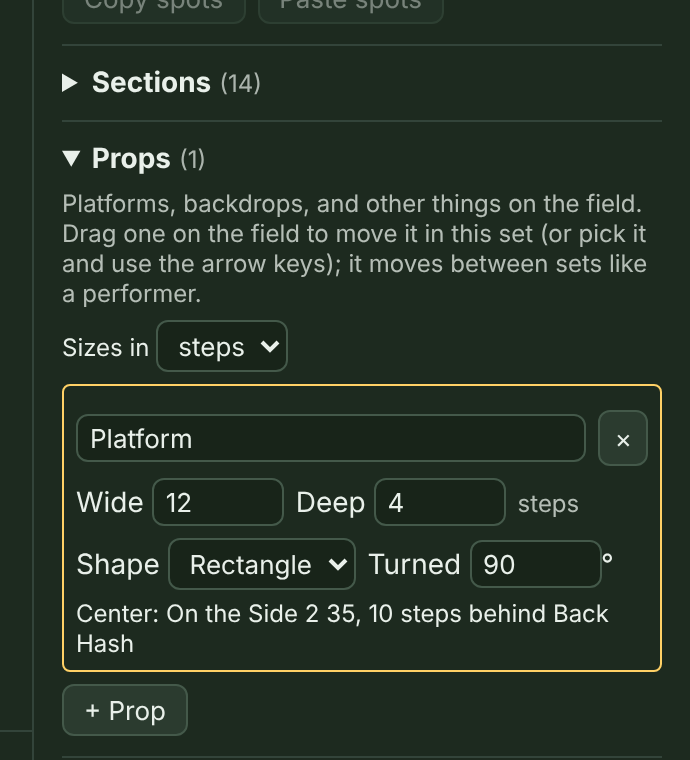
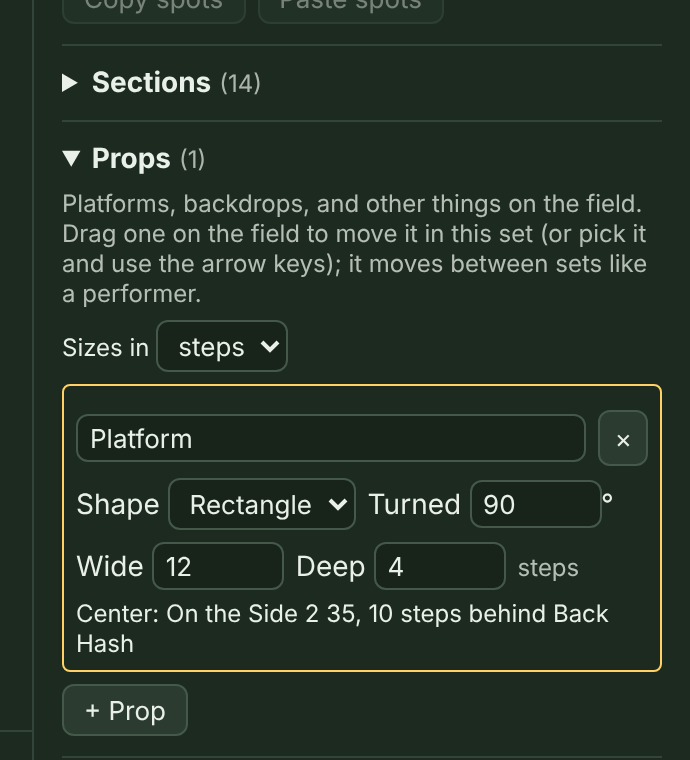
Set triangle props by Side 1, Side 2, and Side 3
Triangles now show only three Side lengths (1, 2, 3) instead of Wide,
Deep, Point, and Flat/Left/Right. Any order works: side 1 runs along the
front until turned, and a triangle whose far corner leans past an end of
side 1 leans that way. While a triangle is picked, the field numbers its
sides. Lengths that don't make a triangle yet are kept in the boxes with
a note, and the prop changes once all three fit. Shape and Turned moved
up beside the name. Guide, screenshot, PLAN, and DECISIONS updated.

Claude-Session: https://claude.ai/code/session_012ak5ZRQCQDvUYugGsDpZEe

Changed region(s): [[0.0913, 0.6053, 0.8826, 0.7868]]

diff --git a/src/ui/Sidebar.tsx b/src/ui/Sidebar.tsx
@@ -11,7 +11,7 @@ import { Menu } from './Toolbar';
 import { FEET, HASHES, distance, fieldDepth, readout, type HashPreset } from '../engine/coords';
 import type { Shape, ShapeKind } from '../engine/shapes';
 import {
-  fieldOf, withField, addProp, newPropSpot, MAX_PROPS, placeProp, removeProp, updateProp, propShape, shapePatch, triangleSides, triangleFromSides, type PropShape, MAX_NAME, scoreOrder, setCue, setMarks, setNames, setNote, label, locate, newId, moveToSection, removeSection, duplicateLetters, renumberSection, placeInSet, remapHash, positionsAt, xFrom, yFrom,
+  fieldOf, withField, addProp, newPropSpot, MAX_PROPS, placeProp, removeProp, updateProp, propShape, shapePatch, triangleSides, triangleFromSides, MAX_PROP_SIZE, type PropShape, MAX_NAME, scoreOrder, setCue, setMarks, setNames, setNote, label, locate, newId, moveToSection, removeSection, duplicateLetters, renumberSection, placeInSet, remapHash, positionsAt, xFrom, yFrom,
   type FrontDir, type FrontRef, type Section, type Show, type SideDir,
 } from '../engine/show';
 import { NumberField } from './NumberField';
@@ -494,7 +494,8 @@ function PropsEditor({ show, setShow, onSet, selected, setSelected }: { show: Sh
   const setFeet = (f: boolean) => { setFeetRaw(f); try { localStorage.setItem(PROP_UNITS, f ? 'feet' : 'steps'); } catch { /* storage blocked */ } };
   const per = feet ? FEET : 1, unit = feet ? 'feet' : 'steps'; // steps in one unit
   const inUnits = (steps: number) => Math.round((steps / per) * 100) / 100;
-  const [sideNote, setSideNote] = useState<{ id: string; text: string } | null>(null);
+  // Side lengths typed that don't make a triangle yet (often halfway through typing three new ones): kept and shown until they do.
+  const [sideDraft, setSideDraft] = useState<{ id: string; sides: number[]; text: string } | null>(null);
   return (
     <details open={open} onToggle={(e) => setOpen(e.currentTarget.open)} style={{ borderTop: '1px solid var(--line)', padding: '10px 0' }}>
       <summary><strong>Props</strong> <span style={{ fontSize: 12, opacity: 0.7 }}>({props.length})</span></summary>
@@ -512,42 +513,38 @@ function PropsEditor({ show, setShow, onSet, selected, setSelected }: { show: Sh
                 onClick={(e) => { e.stopPropagation(); setShow((s) => removeProp(s, pr.id)); if (sel) setSelected(null); }}>×</button>
             </div>
             <div style={row}>
-              <label>Wide <NumberField aria-label={`Prop width in ${unit}`} min={0.5 / per} max={200 / per} step={0.5} value={inUnits(pr.w)} style={{ width: 52 }} onValue={(n) => setShow((s) => updateProp(s, pr.id, { w: n * per }))} /></label>
-              <label>Deep <NumberField aria-label={`Prop depth in ${unit}`} min={0.5 / per} max={200 / per} step={0.5} value={inUnits(pr.h)} style={{ width: 52 }} onValue={(n) => setShow((s) => updateProp(s, pr.id, { h: n * per }))} /></label>
-              <span style={{ fontSize: 12, opacity: 0.75 }}>{unit}</span>
-            </div>
-            <div style={row}>
-              <label>Shape <select aria-label="Prop shape" value={propShape(pr)} onChange={(e) => setShow((s) => updateProp(s, pr.id, shapePatch(e.target.value as PropShape)))}>
+              <label>Shape <select aria-label="Prop shape" value={propShape(pr)} onChange={(e) => { setSideDraft(null); setShow((s) => updateProp(s, pr.id, shapePatch(e.target.value as PropShape))); }}>
                 <option value="rectangle">Rectangle</option><option value="oval">Oval</option><option value="triangle">Triangle</option>
               </select></label>
               {spot && <label title="Its turn in this set, in degrees counterclockwise">Turned <NumberField aria-label="Prop turn in degrees" min={-360} max={360} integer value={spot.angle} style={{ width: 52 }}
                 onValue={(n) => setShow((s) => placeProp(s, onSet, pr.id, { ...spot, angle: n }))} />°</label>}
             </div>
-            {pr.triangle && <div style={row}>
-              <label title="Where the point is, measured along the flat side from its left corner: 0 or the full width makes a right triangle">Point <NumberField aria-label={`Triangle point, ${unit} from the left corner`}
-                min={0} max={inUnits(pr.w)} step={0.5} value={inUnits((pr.point ?? 0.5) * pr.w)} style={{ width: 52 }}
-                onValue={(n) => setShow((s) => updateProp(s, pr.id, { point: Math.abs((n * per) / pr.w - 0.5) < 1e-9 ? undefined : Math.min(1, Math.max(0, (n * per) / pr.w)) }))} /></label>
-              <span style={{ fontSize: 12, opacity: 0.75 }}>{unit} from the left corner</span>
+            {!pr.triangle && <div style={row}>
+              <label>Wide <NumberField aria-label={`Prop width in ${unit}`} min={0.5 / per} max={MAX_PROP_SIZE / per} step={0.5} value={inUnits(pr.w)} style={{ width: 52 }} onValue={(n) => setShow((s) => updateProp(s, pr.id, { w: n * per }))} /></label>
+              <label>Deep <NumberField aria-label={`Prop depth in ${unit}`} min={0.5 / per} max={MAX_PROP_SIZE / per} step={0.5} value={inUnits(pr.h)} style={{ width: 52 }} onValue={(n) => setShow((s) => updateProp(s, pr.id, { h: n * per }))} /></label>
+              <span style={{ fontSize: 12, opacity: 0.75 }}>{unit}</span>
             </div>}
             {pr.triangle && (() => {
-              // The same triangle by its three sides: change one, and the other two stay put.
-              const sides = triangleSides(pr);
-              const setSide = (k: keyof typeof sides, n: number) => {
-                const next = { ...sides, [k]: n * per }, t = triangleFromSides(next.flat, next.left, next.right);
-                if (typeof t === 'string') { setSideNote({ id: pr.id, text: t }); return; }
-                setSideNote(null);
+              // A triangle is its three side lengths: change one, and the other two stay put.
+              const draft = sideDraft?.id === pr.id ? sideDraft : null, sides = draft?.sides ?? triangleSides(pr);
+              const setSide = (k: number, n: number) => {
+                const next = sides.map((x, j) => (j === k ? n * per : x)), t = triangleFromSides(next[0], next[1], next[2]);
+                if (typeof t === 'string') { setSideDraft({ id: pr.id, sides: next, text: t }); return; }
+                setSideDraft(null);
                 setShow((s) => updateProp(s, pr.id, t));
               };
               return (
                 <>
-                  <div style={row} title="Type the length of each side, as measured on the prop. Change one and the other two stay the same.">
-                    <span style={{ width: '100%' }}>Sides <span style={{ fontSize: 12, opacity: 0.75 }}>({unit})</span></span>
-                    {(['flat', 'left', 'right'] as const).map((k) => (
-                      <label key={k} style={{ fontSize: 12 }}>{k === 'flat' ? 'Flat' : k === 'left' ? 'Left' : 'Right'} <NumberField whenDone aria-label={`Triangle ${k} side in ${unit}`}
-                        min={0.01} max={400 / per} step="any" value={inUnits(sides[k])} style={{ width: 48 }} onValue={(n) => setSide(k, n)} /></label>
+                  <div style={row} title="Type each side's length, as measured on the prop. Change one and the other two stay the same.">
+                    <span style={{ width: '100%' }}>Side lengths <span style={{ fontSize: 12, opacity: 0.75 }}>({unit})</span></span>
+                    {sides.map((len, k) => (
+                      <label key={k}>{k + 1} <NumberField whenDone aria-label={`Side ${k + 1} length in ${unit}`}
+                        min={0.01} max={(2 * MAX_PROP_SIZE) / per} step="any" value={inUnits(len)} style={{ width: 56 }} onValue={(n) => setSide(k, n)} /></label>
                     ))}
                   </div>
-                  {sideNote?.id === pr.id && <p role="status" style={{ fontSize: 12, margin: '4px 0 0' }}>{sideNote.text}</p>}
+                  {draft && <p role="status" style={{ fontSize: 12, margin: '4px 0 0' }}>{draft.text} The prop changes once all three fit.{' '}
+                    <button style={{ fontSize: 12 }} onClick={() => setSideDraft(null)}>Put them back</button></p>}
+                  <p style={{ fontSize: 12, opacity: 0.75, margin: '4px 0 0' }}>Side 1 runs along the front until it's turned. The field numbers the sides while the prop is picked.</p>
                 </>
               );
             })()}

diff --git a/src/engine/show.ts b/src/engine/show.ts
@@ -62,10 +62,11 @@ export interface DrillSet {
 }
 
 /**
- * A prop on the field (a platform, a backdrop): a rectangle, an oval when `round`, or a triangle when `triangle`, `w` steps side to side
- * and `h` front to back. The triangle's flat side is toward the front and its point toward the back, until it's turned. `point` is where
- * the point sits along the width, 0 over the left corner to 1 over the right (left as the director sees it); missing means the middle.
- * With the longest side as the flat side, that covers every triangle: right (0 or 1), even-sided, and lopsided ones.
+ * A prop on the field (a platform, a backdrop): a rectangle or an oval (`round`) `w` steps side to side and `h` front to back, or a triangle
+ * (`triangle`). A triangle is set by its three sides. Side 1 is `w` steps long and runs side to side along the front, until it's turned;
+ * the corner across from it is `h` steps behind it, `point` × w from side 1's left end (missing means the middle; below 0 or past 1 when
+ * the triangle leans out past an end of side 1). Side 2 runs from side 1's left end to that corner, side 3 from its right end. A triangle's
+ * center is the middle of the box around it.
  */
 export interface Prop { id: string; name: string; w: number; h: number; round?: boolean; triangle?: boolean; point?: number }
 export type PropShape = 'rectangle' | 'oval' | 'triangle';
@@ -73,29 +74,35 @@ export const propShape = (p: Pick<Prop, 'round' | 'triangle'>): PropShape => (p.
 /** The patch that makes a prop this shape (older files only know `round`, so ovals stay `round`). */
 export const shapePatch = (shape: PropShape): Pick<Prop, 'round' | 'triangle' | 'point'> =>
   ({ round: shape === 'oval' || undefined, triangle: shape === 'triangle' || undefined, ...(shape === 'triangle' ? {} : { point: undefined }) });
-/** A triangle prop's three sides in steps: the flat side, then the left and right sides up to the point (left as the director sees it, unturned). */
-export function triangleSides(p: Pick<Prop, 'w' | 'h' | 'point'>) {
+
+/** A triangle prop's corners in its own frame (steps, y toward the back), around its center: side 1's left end, its right end, the far corner. */
+export function triangleCorners(p: Pick<Prop, 'w' | 'h' | 'point'>): [Point, Point, Point] {
+  const x = (p.point ?? 0.5) * p.w, mid = (Math.min(0, x) + Math.max(p.w, x)) / 2;
+  return [{ x: -mid, y: -p.h / 2 }, { x: p.w - mid, y: -p.h / 2 }, { x: x - mid, y: p.h / 2 }];
+}
+
+/** A triangle prop's sides 1, 2, and 3, in steps. */
+export function triangleSides(p: Pick<Prop, 'w' | 'h' | 'point'>): [number, number, number] {
   const x = (p.point ?? 0.5) * p.w;
-  return { flat: p.w, left: Math.hypot(x, p.h), right: Math.hypot(p.w - x, p.h) };
+  return [p.w, Math.hypot(x, p.h), Math.hypot(p.w - x, p.h)];
 }
 
-/**
- * The triangle with these three sides (in steps), as Wide, Deep, and Point, or a sentence saying why there isn't one. The point has to land
- * over the flat side (neither corner on it can be wider than square); making the longest side the flat side always works.
- */
-export function triangleFromSides(flat: number, left: number, right: number): { w: number; h: number; point: number | undefined } | string {
-  const sides = [flat, left, right];
+/** The widest a triangle prop's box may be, in steps (as for Wide). */
+export const MAX_PROP_SIZE = 200;
+/** How wide a triangle prop's box is, in steps. */
+export const triangleWidth = (p: Pick<Prop, 'w' | 'point'>) => { const x = (p.point ?? 0.5) * p.w; return Math.max(p.w, x) - Math.min(0, x); };
+
+/** The triangle with sides 1, 2, and 3 (in steps), or a sentence saying why there isn't one. */
+export function triangleFromSides(s1: number, s2: number, s3: number): { w: number; h: number; point: number | undefined } | string {
+  const sides = [s1, s2, s3];
   if (!sides.every((n) => Number.isFinite(n) && n > 0)) return 'Each side needs a length.';
-  if (Math.max(...sides) * 2 >= flat + left + right - 1e-9) return 'Those sides don\'t make a triangle: the longest has to be shorter than the other two together.';
-  const x = (flat * flat + left * left - right * right) / (2 * flat), h = Math.sqrt(Math.max(0, left * left - x * x));
-  if (x < -1e-9 || x > flat + 1e-9) return 'With those sides the point would hang past the end of the flat side. Make the longest side the flat side.';
-  if (flat > 200 || h > 200) return 'That\'s bigger than a prop can be (200 steps).';
-  const point = Math.min(1, Math.max(0, x / flat));
-  return { w: flat, h, point: Math.abs(point - 0.5) < 1e-9 ? undefined : point };
+  if (Math.max(...sides) * 2 >= s1 + s2 + s3 - 1e-9) return 'Those sides don\'t make a triangle: the longest side has to be shorter than the other two put together.';
+  const x = (s1 * s1 + s2 * s2 - s3 * s3) / (2 * s1), h = Math.sqrt(Math.max(0, s2 * s2 - x * x)), point = x / s1;
+  const t = { w: s1, h, point: Math.abs(point - 0.5) < 1e-9 ? undefined : point };
+  if (triangleWidth(t) > MAX_PROP_SIZE || h > MAX_PROP_SIZE) return `That's bigger than a prop can be (${MAX_PROP_SIZE} steps across).`;
+  return t;
 }
 
-/** The triangle's point, side to side from the middle of its box, in steps. */
-export const pointOffset = (p: Pick<Prop, 'w' | 'point'>) => ((p.point ?? 0.5) - 0.5) * p.w;
 /** A prop's center and its turn in degrees (counterclockwise as the director sees it). */
 export interface PropSpot { x: number; y: number; angle: number }
 export const MAX_PROPS = 100;
@@ -802,11 +809,16 @@ export function propsAt(show: Show, t: number): Record<string, PropSpot> {
   return out;
 }
 
-/** Inside a triangle with its flat side 2·hw wide at v = -hh and its point at (px, hh)? */
-function inTriangle(u: number, v: number, hw: number, hh: number, px: number) {
-  if (Math.abs(v) > hh) return false;
-  const t = (v + hh) / (2 * hh); // 0 at the flat side, 1 at the point
-  return u >= -hw + t * (px + hw) && u <= hw + t * (px - hw);
+/** Inside triangle `c`, or within `pad` of its edge? */
+function inTriangle(q: Point, c: [Point, Point, Point], pad: number) {
+  const cross = (a: Point, b: Point) => (b.x - a.x) * (q.y - a.y) - (b.y - a.y) * (q.x - a.x);
+  const d = [cross(c[0], c[1]), cross(c[1], c[2]), cross(c[2], c[0])];
+  if (d.every((n) => n >= 0) || d.every((n) => n <= 0)) return true;
+  const toEdge = (a: Point, b: Point) => { // distance from q to the segment a-b
+    const vx = b.x - a.x, vy = b.y - a.y, t = Math.max(0, Math.min(1, ((q.x - a.x) * vx + (q.y - a.y) * vy) / (vx * vx + vy * vy || 1)));
+    return Math.hypot(q.x - a.x - t * vx, q.y - a.y - t * vy);
+  };
+  return Math.min(toEdge(c[0], c[1]), toEdge(c[1], c[2]), toEdge(c[2], c[0])) <= pad;
 }
 
 /** The prop under field point `p` (the top one), with `pad` steps of reach around its edge. */
@@ -818,7 +830,7 @@ export function hitProp(show: Show, spots: Record<string, PropSpot>, p: Point, p
     const u = dx * Math.cos(a) - dy * Math.sin(a), v = dx * Math.sin(a) + dy * Math.cos(a); // in the prop's own frame
     const hw = pr.w / 2 + pad, hh = pr.h / 2 + pad, shape = propShape(pr);
     if (shape === 'oval' ? (u / hw) ** 2 + (v / hh) ** 2 <= 1
-      : shape === 'triangle' ? inTriangle(u, v, hw, hh, pointOffset(pr))
+      : shape === 'triangle' ? inTriangle({ x: u, y: v }, triangleCorners(pr), pad)
       : Math.abs(u) <= hw && Math.abs(v) <= hh) return pr.id;
   }
 }

diff --git a/src/engine/show.test.ts b/src/engine/show.test.ts
@@ -4,7 +4,7 @@ import {
   nextRevision, revisionLabel,
   addPerformer, addSetAfter, advance, biggestStep, chainOrder, clearFtl, ftlTrail, moveSteps, normalizeFtl, flip, mirrorSides, moveSetTo, remapHash, rotateScale, setFtl, newShowId, parseShowFile, snapSelection, playRange, playPlan, label, locate, newShow, parseShow, placeInSet, positionsAt,
   removePerformers, renumberSets, scoreOrder, DEFAULT_SECTIONS, removeSet, setAt, setCounts, setStarts, totalCounts, xFrom, yFrom, insertSetAt, showLength, movementAt, movementOfSet, setFtlTurns,
-  addSetHere, setCue, newPropSpot, setFtlSmooth, routeTurns, leaderDistance, setTiming, timingOf, fitTurn, setTurning, turnRoute, groupTurn, counterMarch, closeCalls, addProp, placeProp, propsAt, hitProp, removeProp, updateProp, propShape, shapePatch, pointOffset, triangleSides, triangleFromSides, fieldOf, moveSegments, withShowId, withField, validField,
+  addSetHere, setCue, newPropSpot, setFtlSmooth, routeTurns, leaderDistance, setTiming, timingOf, fitTurn, setTurning, turnRoute, groupTurn, counterMarch, closeCalls, addProp, placeProp, propsAt, hitProp, removeProp, updateProp, propShape, shapePatch, triangleCorners, triangleSides, triangleFromSides, triangleWidth, fieldOf, moveSegments, withShowId, withField, validField,
 } from './show';
 
 function twoSetShow() {
@@ -884,20 +884,46 @@ describe('triangle props', () => {
 });
 
 describe('lopsided triangle props', () => {
-  it('put the point anywhere along the width, and check it in files', () => {
+  it('lean the far corner anywhere, and check it in files', () => {
     const { show: base } = twoSetShow();
     const r = addProp(base, 'Wedge', 8, 6, false, { x: 0, y: 60 });
     const show = updateProp(r.show, r.id, { ...shapePatch('triangle'), point: 0 }); // a right triangle, its square corner front left
     const at = propsAt(show, 0);
-    expect(pointOffset(show.props![0])).toBe(-4);
+    expect(triangleCorners(show.props![0])).toEqual([{ x: -4, y: -3 }, { x: 4, y: -3 }, { x: -4, y: 3 }]);
     expect(hitProp(show, at, { x: -3.8, y: 62.5 })).toBe(r.id); // up the straight left side
-    expect(hitProp(show, at, { x: 3, y: 57.5 })).toBe(r.id); // the far front corner
+    expect(hitProp(show, at, { x: 3, y: 57.5 })).toBe(r.id); // near the far front corner
     expect(hitProp(show, at, { x: 0, y: 62.5 })).toBeUndefined(); // the middle of the back is outside now
+    expect(hitProp(show, at, { x: 0, y: 62.5 }, 2.5)).toBe(r.id); // ... but within reach of the slanted side (2 steps away)
     expect(parseShow(JSON.stringify(show)).props![0].point).toBe(0);
-    const bad = JSON.parse(JSON.stringify(show)); bad.props[0].point = 1.5;
+    const bad = JSON.parse(JSON.stringify(show)); bad.props[0].point = 40; // 320 steps across
     expect(() => parseShow(JSON.stringify(bad))).toThrow(/props/);
-    expect(updateProp(show, r.id, shapePatch('rectangle')).props![0].point).toBeUndefined(); // only triangles keep a point
-    expect(pointOffset({ w: 8 })).toBe(0); // no point saved: the middle
+    expect(updateProp(show, r.id, shapePatch('rectangle')).props![0].point).toBeUndefined(); // only triangles keep it
+  });
+});
+
+describe('triangle props from side lengths', () => {
+  const tri = (a: number, b: number, c: number) => { const t = triangleFromSides(a, b, c); if (typeof t === 'string') throw new Error(t); return t; };
+  it('builds the triangle from sides 1, 2, and 3 and reads them back', () => {
+    expect(tri(8, 6, 6).point).toBeUndefined(); // two equal sides: the far corner in the middle
+    expect(tri(8, 6, 6).h).toBeCloseTo(Math.sqrt(20));
+    const right = tri(5, 3, 4); // the carpenter's 3-4-5
+    expect(right.h).toBeCloseTo(2.4);
+    expect(triangleSides(right).map((n) => Math.round(n * 1e9) / 1e9)).toEqual([5, 3, 4]);
+  });
+  it('takes any order, even when the triangle leans past an end of side 1', () => {
+    const t = tri(3, 4, 5); // side 1 is a short side now: the far corner is straight back from its left end
+    expect(t.point).toBeCloseTo(0);
+    const lean = tri(4, 7, 4); // side 2 the longest: the corner leans out past side 1's right end
+    expect(lean.point!).toBeGreaterThan(1);
+    expect(triangleSides(lean).map((n) => Math.round(n * 1e9) / 1e9)).toEqual([4, 7, 4]);
+    expect(triangleWidth(lean)).toBeCloseTo(lean.point! * 4); // the box runs from side 1's left end to the corner
+    const c = triangleCorners(lean);
+    expect((Math.min(c[0].x, c[2].x) + Math.max(c[1].x, c[2].x)) / 2).toBeCloseTo(0); // centered on its box
+  });
+  it('explains sides that make no triangle', () => {
+    expect(triangleFromSides(10, 3, 4)).toMatch(/don't make a triangle/);
+    expect(triangleFromSides(5, 0, 4)).toMatch(/needs a length/);
+    expect(triangleFromSides(300, 200, 200)).toMatch(/bigger than a prop/);
   });
 });
 
@@ -1031,20 +1057,3 @@ describe('parseShow with built-in object names as ids', () => {
   });
 });
 
-describe('triangle props from side lengths', () => {
-  it('builds the triangle from its three sides and reads them back', () => {
-    const t = triangleFromSides(8, 6, 6);
-    if (typeof t === 'string') throw new Error(t);
-    expect(t.point).toBeUndefined(); // even: the point in the middle
-    expect(t.h).toBeCloseTo(Math.sqrt(20));
-    const right = triangleFromSides(5, 3, 4); // the carpenter's 3-4-5: square corner where the point drops straight down
-    if (typeof right === 'string') throw new Error(right);
-    expect(right.h).toBeCloseTo(2.4);
-    const back = triangleSides(right);
-    expect([back.flat, back.left, back.right].map((n) => Math.round(n * 1e9) / 1e9)).toEqual([5, 3, 4]);
-    expect(triangleFromSides(10, 3, 4)).toMatch(/don't make a triangle/);
-    expect(triangleFromSides(5, 7, 4)).toMatch(/hang past/);
-    expect(typeof triangleFromSides(5, 5.5, 4)).toBe('object'); // a side a bit longer than the flat one can still fit
-    expect(triangleFromSides(5, 0, 4)).toMatch(/needs a length/);
-  });
-});

diff --git a/src/field/drawField.ts b/src/field/drawField.ts
@@ -1,6 +1,6 @@
 import { chrome, FIELD as F, LIGHT, PALETTE } from '../ui/palette';
 import { placeLabels, turned } from './labels';
-import { pointOffset, propShape, type LabelSide } from '../engine/show';
+import { propShape, triangleCorners, type LabelSide } from '../engine/show';
 import { FEET, FIELD_WIDTH, GOAL_LINE_X, HASHES, STEP_IN, type FieldSpec, type Floor, type Point } from '../engine/coords';
 import { TEXT_STEPS, type Mark } from '../engine/marks';
 
@@ -256,9 +256,10 @@ export function drawProps(
     ctx.translate(c.x, c.y);
     ctx.rotate((-s.angle * Math.PI) / 180); // the screen's y runs down, so counterclockwise on the field is negative here
     ctx.beginPath();
-    const shape = propShape(pr), tip = pointOffset(pr) * v.scale;
+    const shape = propShape(pr), tri = shape === 'triangle' ? triangleCorners(pr) : null;
+    const at0 = (q: Point) => ({ x: q.x * v.scale, y: -q.y * v.scale }); // the prop's own frame (y toward the back) on screen, unturned
     if (shape === 'oval') ctx.ellipse(0, 0, w / 2, h / 2, 0, 0, Math.PI * 2);
-    else if (shape === 'triangle') { ctx.moveTo(tip, -h / 2); ctx.lineTo(w / 2, h / 2); ctx.lineTo(-w / 2, h / 2); ctx.closePath(); } // point toward the back (up)
+    else if (tri) { tri.map(at0).forEach((q, k) => (k ? ctx.lineTo(q.x, q.y) : ctx.moveTo(q.x, q.y))); ctx.closePath(); } // side 1 along the front
     else ctx.rect(-w / 2, -h / 2, w, h);
     ctx.globalAlpha = mode === 'print' ? 0.85 : 0.7;
     ctx.fillStyle = I.propFill;
@@ -270,16 +271,27 @@ export function drawProps(
     ctx.stroke();
     ctx.restore();
     ctx.save();
-    // A triangle's name sits at its centroid (a third of the way up from its flat side, where there's room), turned with it.
-    const [ox, oy] = shape === 'triangle' ? [tip / 3, h / 6] : [0, 0], a = (-s.angle * Math.PI) / 180;
-    const m = ctx.getTransform(), at = m.transformPoint({ x: c.x + ox * Math.cos(a) - oy * Math.sin(a), y: c.y + ox * Math.sin(a) + oy * Math.cos(a) });
-    ctx.setTransform(1, 0, 0, 1, 0, 0); // the name reads upright, even on a field turned around
-    ctx.font = `700 ${px}px system-ui, sans-serif`; ctx.textAlign = 'center'; ctx.textBaseline = 'middle';
-    const maxW = Math.max(w, h) * Math.hypot(m.a, m.b);
-    ctx.lineWidth = px * 0.3; ctx.lineJoin = 'round'; ctx.strokeStyle = I.propHalo;
-    ctx.strokeText(pr.name, at.x, at.y, maxW); // an edge, so lines on the field don't run through the name
-    ctx.fillStyle = mode === 'print' ? F.black : sel ? I.selLine : I.propName;
-    ctx.fillText(pr.name, at.x, at.y, maxW);
+    // Text reads upright, even on a field turned around: place it by hand, turned with the prop. A triangle's name sits at its
+    // centroid, where there's room; picked, its sides are numbered 1, 2, 3 (as in the sidebar), just outside each side's middle.
+    const a = (-s.angle * Math.PI) / 180, m = ctx.getTransform();
+    const place = (q: Point) => { const o = at0(q); return m.transformPoint({ x: c.x + o.x * Math.cos(a) - o.y * Math.sin(a), y: c.y + o.x * Math.sin(a) + o.y * Math.cos(a) }); };
+    const mid = tri ? { x: (tri[0].x + tri[1].x + tri[2].x) / 3, y: (tri[0].y + tri[1].y + tri[2].y) / 3 } : { x: 0, y: 0 };
+    ctx.setTransform(1, 0, 0, 1, 0, 0);
+    ctx.textAlign = 'center'; ctx.textBaseline = 'middle'; ctx.lineJoin = 'round';
+    const label = (text: string, q: DOMPoint, size: number, maxW?: number) => {
+      ctx.font = `700 ${size}px system-ui, sans-serif`; ctx.lineWidth = size * 0.3; ctx.strokeStyle = I.propHalo;
+      ctx.strokeText(text, q.x, q.y, maxW); // an edge, so lines on the field don't run through it
+      ctx.fillStyle = mode === 'print' ? F.black : sel ? I.selLine : I.propName;
+      ctx.fillText(text, q.x, q.y, maxW);
+    };
+    label(pr.name, place(mid), px, Math.max(w, h) * Math.hypot(m.a, m.b));
+    if (tri && sel && mode !== 'print') {
+      const gap = (px * 0.9) / (v.scale * Math.hypot(m.a, m.b)); // steps, so the number clears the line
+      ([[0, 1], [0, 2], [1, 2]] as const).forEach(([i, j], k) => {
+        const e = { x: (tri[i].x + tri[j].x) / 2, y: (tri[i].y + tri[j].y) / 2 }, d = Math.hypot(e.x - mid.x, e.y - mid.y) || 1;
+        label(String(k + 1), place({ x: e.x + ((e.x - mid.x) / d) * gap, y: e.y + ((e.y - mid.y) / d) * gap }), px * 0.9);
+      });
+    }
     ctx.restore();
   }
 }

diff --git a/src/engine/showFile.ts b/src/engine/showFile.ts
@@ -5,7 +5,7 @@ import { HASHES, type Point } from './coords';
 import { validMusic } from './music';
 import { validMark } from './marks';
 import {
-  COLOR_RE, LABEL_SIDES, MAX_MOVEMENT, MAX_NAME, MAX_PROPS, MAX_STEP_LIMIT, MAX_TURNS, MIN_STEP_LIMIT, normalizeFtl, validField,
+  COLOR_RE, LABEL_SIDES, MAX_PROP_SIZE, triangleWidth, MAX_MOVEMENT, MAX_NAME, MAX_PROPS, MAX_STEP_LIMIT, MAX_TURNS, MIN_STEP_LIMIT, normalizeFtl, validField,
   type DrillSet, type LabelSide, type Movement, type Performer, type Prop, type PropSpot, type Section, type Show,
 } from './show';
 
@@ -82,7 +82,7 @@ function checkShow(s: any): Show { // eslint-disable-line @typescript-eslint/no-
   if (s.props !== undefined && (!Array.isArray(s.props) || s.props.length > MAX_PROPS || !s.props.every((p: Prop) => okId(p?.id) && str(p.name) && p.name.length <= MAX_NAME
     && Number.isFinite(p.w) && p.w > 0 && p.w <= 200 && Number.isFinite(p.h) && p.h > 0 && p.h <= 200 && (p.round === undefined || typeof p.round === 'boolean')
     && (p.triangle === undefined || typeof p.triangle === 'boolean') && !(p.round && p.triangle)
-    && (p.point === undefined || (Number.isFinite(p.point) && p.point >= 0 && p.point <= 1))))) bad('props');
+    && (p.point === undefined || (Number.isFinite(p.point) && triangleWidth(p) <= MAX_PROP_SIZE))))) bad('props');
   if (s.trace !== undefined && !(str(s.trace?.id) && Number.isFinite(s.trace.x) && Number.isFinite(s.trace.y) && Number.isFinite(s.trace.w) && s.trace.w > 0
     && Number.isFinite(s.trace.opacity) && s.trace.opacity >= 0 && s.trace.opacity <= 1)) bad('trace');
   if (s.surface !== undefined && (typeof s.surface !== 'object' || !validField(s.surface))) bad('surface');

diff --git a/docs/HOW-TO.md b/docs/HOW-TO.md
@@ -296,8 +296,9 @@ A delayed step-off and a turning move work together: hold 4, then turn in 12, fo
 
 Props are things on the field that aren't performers: a platform, a backdrop, a ramp. Click **Add**'s **▾**, then **Prop** (after that, **Add Prop** adds another). It starts as a square 8 steps wide and 8 deep in the middle of the field (if a prop is already there, 2 steps right and 2 down from it, so they don't land on top of each other), in every set, and it's picked, with its box open in the sidebar. (**+ Prop** under **Props** in the sidebar, and **Place a prop** on a blank field's **Start your show** note, do the same.)
 
-- Type its name, and set how **Wide** (side to side) and **Deep** (front to back) it is. Sizes are in steps unless you pick **feet** in **Sizes in** at the top of the list, handy when you're working from a builder's measurements. (That choice stays on this computer; the show itself always keeps steps, so it opens the same everywhere.) Pick its **Shape**: **Rectangle**, **Oval** (an oval or a circle), or **Triangle**. A triangle starts with its flat side to the front and its point to the back, in the middle. **Point** moves the point along the width: type how many steps it is from the left corner. Type 0 (or the full width) for a right triangle with its square corner on that side, or anything in between for a lopsided one. Any triangle fits this way: make its longest side the flat side, set **Wide** to that side's length and **Deep** to how far the point is from it, then use **Turned** to point it the way it faces on the field.
-- **Sides** is the easier way to build a triangle to exact measurements. Type the length of the **Flat** side and the **Left** and **Right** sides (left and right as you look at it with its point to the back), and FreeFORM works out **Wide**, **Deep**, and **Point** for you. Changing one side keeps the other two. A carpenter's 3-4-5 square corner, for example, is **Flat** 5, **Left** 3, **Right** 4. If the three sides can't make a triangle, or the point would land past the end of the flat side, a note says so and nothing changes. Make the longest side the flat side and it always works.
+- Type its name and pick its **Shape**: **Rectangle**, **Oval** (an oval or a circle), or **Triangle**. Sizes are in steps unless you pick **feet** in **Sizes in** at the top of the list, handy when you're working from a builder's measurements. (That choice stays on this computer; the show itself always keeps steps, so it opens the same everywhere.)
+- For a rectangle or an oval, set how **Wide** (side to side) and **Deep** (front to back) it is.
+- For a triangle, type its three **Side lengths**, **1**, **2**, and **3**, as measured on the prop, in any order. FreeFORM draws the triangle those sides make. Side 1 runs along the front until you turn it, and while the prop is picked the field shows a small 1, 2, and 3 beside its sides. Changing one length keeps the other two. A carpenter's 3-4-5 (a square corner) is **1** 5, **2** 3, **3** 4, for example. If the lengths can't make a triangle (the longest side has to be shorter than the other two put together), a note says so and the prop waits: your lengths stay in the boxes, so you can keep typing, and the prop changes once all three fit. **Put them back** returns to the triangle's own lengths.
 - **Drag it on the field** to move it in the set you're on. While you drag, the readout in the corner of the field shows where its center is, and **Center** in its box in the sidebar shows the same. Like a performer, it moves into later sets where it was still standing on its old spot, and it rolls from spot to spot between sets.
 - **By keyboard**: with a prop picked, the arrow keys move it 1 step (Shift for 4 steps, Option or Alt for half a step), and the note at the bottom of the field says where its center is. To pick one without the mouse, Tab to its box under **Props** in the sidebar. Type its turn in **Turned**.
 - **Turned** turns it in this set, in degrees counterclockwise. Between sets it turns the short way.

diff --git a/DECISIONS.md b/DECISIONS.md
@@ -481,3 +481,11 @@ Recent decisions are here. Older ones are in [docs/decisions/](docs/decisions/),
 - **Options:** a separate "make a prop from measurements" dialog; side lengths as a second, always-live view of the same triangle; drawing corners on the field.
 - **Decision:** For triangles, a **Sides** row (**Flat**, **Left**, **Right**) under **Point**. It shows the triangle's current sides and takes new ones: change one and the other two stay put, and **Wide**, **Deep**, and **Point** follow. Sides apply on Enter or leaving the box (not on every keystroke), since half-typed lengths usually aren't a triangle. If the sides can't make one, or the point would land past the end of the flat side, a note says why and the prop doesn't change. The math is `triangleSides` and `triangleFromSides` in `show.ts`, with tests (including a 3-4-5 right triangle).
 - **Feet:** a **Sizes in** menu (steps or feet) at the top of the Props list switches every prop size box (**Wide**, **Deep**, **Point**, **Sides**) to feet, at 22.5 inches to the step, shown to two decimals. It's this computer's choice (`freeform:prop-units` in localStorage), not saved in the show: files and links always store steps, so nothing about the file format changes and a show looks the same everywhere.
+
+## 2026-11-17 10:05 EST: Triangles are set by Side 1, Side 2, and Side 3
+
+- **Who:** Jason found "Point," "Flat," "Left," and "Right" unclear and asked for side length 1, 2, and 3 instead. The details are Claude's choices, *Jason can veto*.
+- **Context:** A triangle had two overlapping sets of boxes (**Wide**, **Deep**, **Point**, then **Flat**, **Left**, **Right**), and only worked when the longest side was the flat one.
+- **Decision:** A triangle's box now shows only **Side lengths** **1**, **2**, and **3** (plus **Shape** and **Turned**, which moved up beside the name). **Wide**, **Deep**, and **Point** are gone for triangles; rectangles and ovals keep **Wide** and **Deep**. Any order works: side 1 always runs along the front until it's turned, and when the corner across from it leans out past an end of side 1, the triangle leans that way (the file's `point` can now be below 0 or past 1; `parseShow` checks the whole triangle is at most 200 steps across). A triangle's center is the middle of the box around it, so turning and the center readout behave like any other prop. While a triangle is picked, the field shows a small 1, 2, and 3 beside its sides, so the numbers in the sidebar have something to point at (not on printed charts).
+- **Typing three new lengths (Claude):** entering new sides one box at a time often passes through lengths that aren't a triangle yet (16, then 28, then 16). Instead of refusing the middle one, the boxes keep what was typed, a note says why it isn't a triangle yet, and the prop changes once all three fit; **Put them back** drops the typed lengths.
+- **Replaces** the Point box and the Flat/Left/Right row from earlier today (never released). This morning's `triangle` and `point` fields keep their meaning for any triangle saved since, so nothing breaks.

diff --git a/PLAN.md b/PLAN.md
@@ -30,7 +30,7 @@
 - ✅ Gaps a Pyware or UDB writer would notice (2026-11-05): delayed step-offs (hold, then move, then hold) in a **Move** menu; turning moves (a rotating group marches arcs around the turn that fits its old and new spots, one step size each); rotate around a chosen performer (gate turns); counter-march (an FTL preset); too-close warnings (under 1 step at any half count) on the timeline and in **Move**; Select all, select a section, copy and paste spots between sets, and the distance between two selected performers. ✅ Copy Side 1 → 2 copies step-offs, turning moves, and imported routes too (2026-11-16). Follow-ups: a turning move always takes the short way around (no 270° turns); a counter-march lane is always 1 step.
 - ~~Facing~~ (taken out 2026-11-07, Jason: write it in the performer notes; older files' facings become notes). Was: (Jason: eight directions): per performer per set, carried forward until changed; a pointer on a selected performer's badge (and on a phone, the performer's own mark); "Face Side 2" on dot sheets where it changes. Mid-move, performers show the facing of the set they left. Flips and Copy Side 1 → 2 don't change facings.
 - ~~Guard equipment~~ (taken out 2026-11-07 with facing, same reason). Was: flag, rifle, or saber (or nothing) per performer, set where it changes and carried forward like facing; noted on dot sheets where it changes. Equipment and instrument icons on the field were tried and taken out (Jason: simpler without them); performers stay letters or dots.
-- ✅ Props (Jason: movable): named rectangles, ovals, or triangles (the point anywhere along the width, or built from three side lengths), sized in steps or feet, with a spot and turn in every set; dragged on the field (through holds), moved and turned the short way between sets; on the field, charts, and phones. Follow-ups: props in shapes and transforms; a prop on dot sheets.
+- ✅ Props (Jason: movable): named rectangles and ovals (wide and deep) or triangles (any three side lengths), sized in steps or feet, with a spot and turn in every set; dragged on the field (through holds), moved and turned the short way between sets; on the field, charts, and phones. Follow-ups: props in shapes and transforms; a prop on dot sheets.
 - ✅ Letters (a shape: capitals, numbers, hyphens, stroke font written for FreeFORM; the box keeps the letters' proportions) and a picture to trace under the field (kept in the browser, never in files or links). Follow-ups: lowercase and punctuation; dragging the picture on the field.
 - ✅ Print follow-ups: paths on charts (a checkbox, off by default), one dot sheet per page with a notes column, and step-offs in the notes; (done earlier: measures fill in from the score for sets without them).
 - ✅ Page markup: text notes, arrows, freehand drawing, page notes; per-performer cues on dot sheets.
